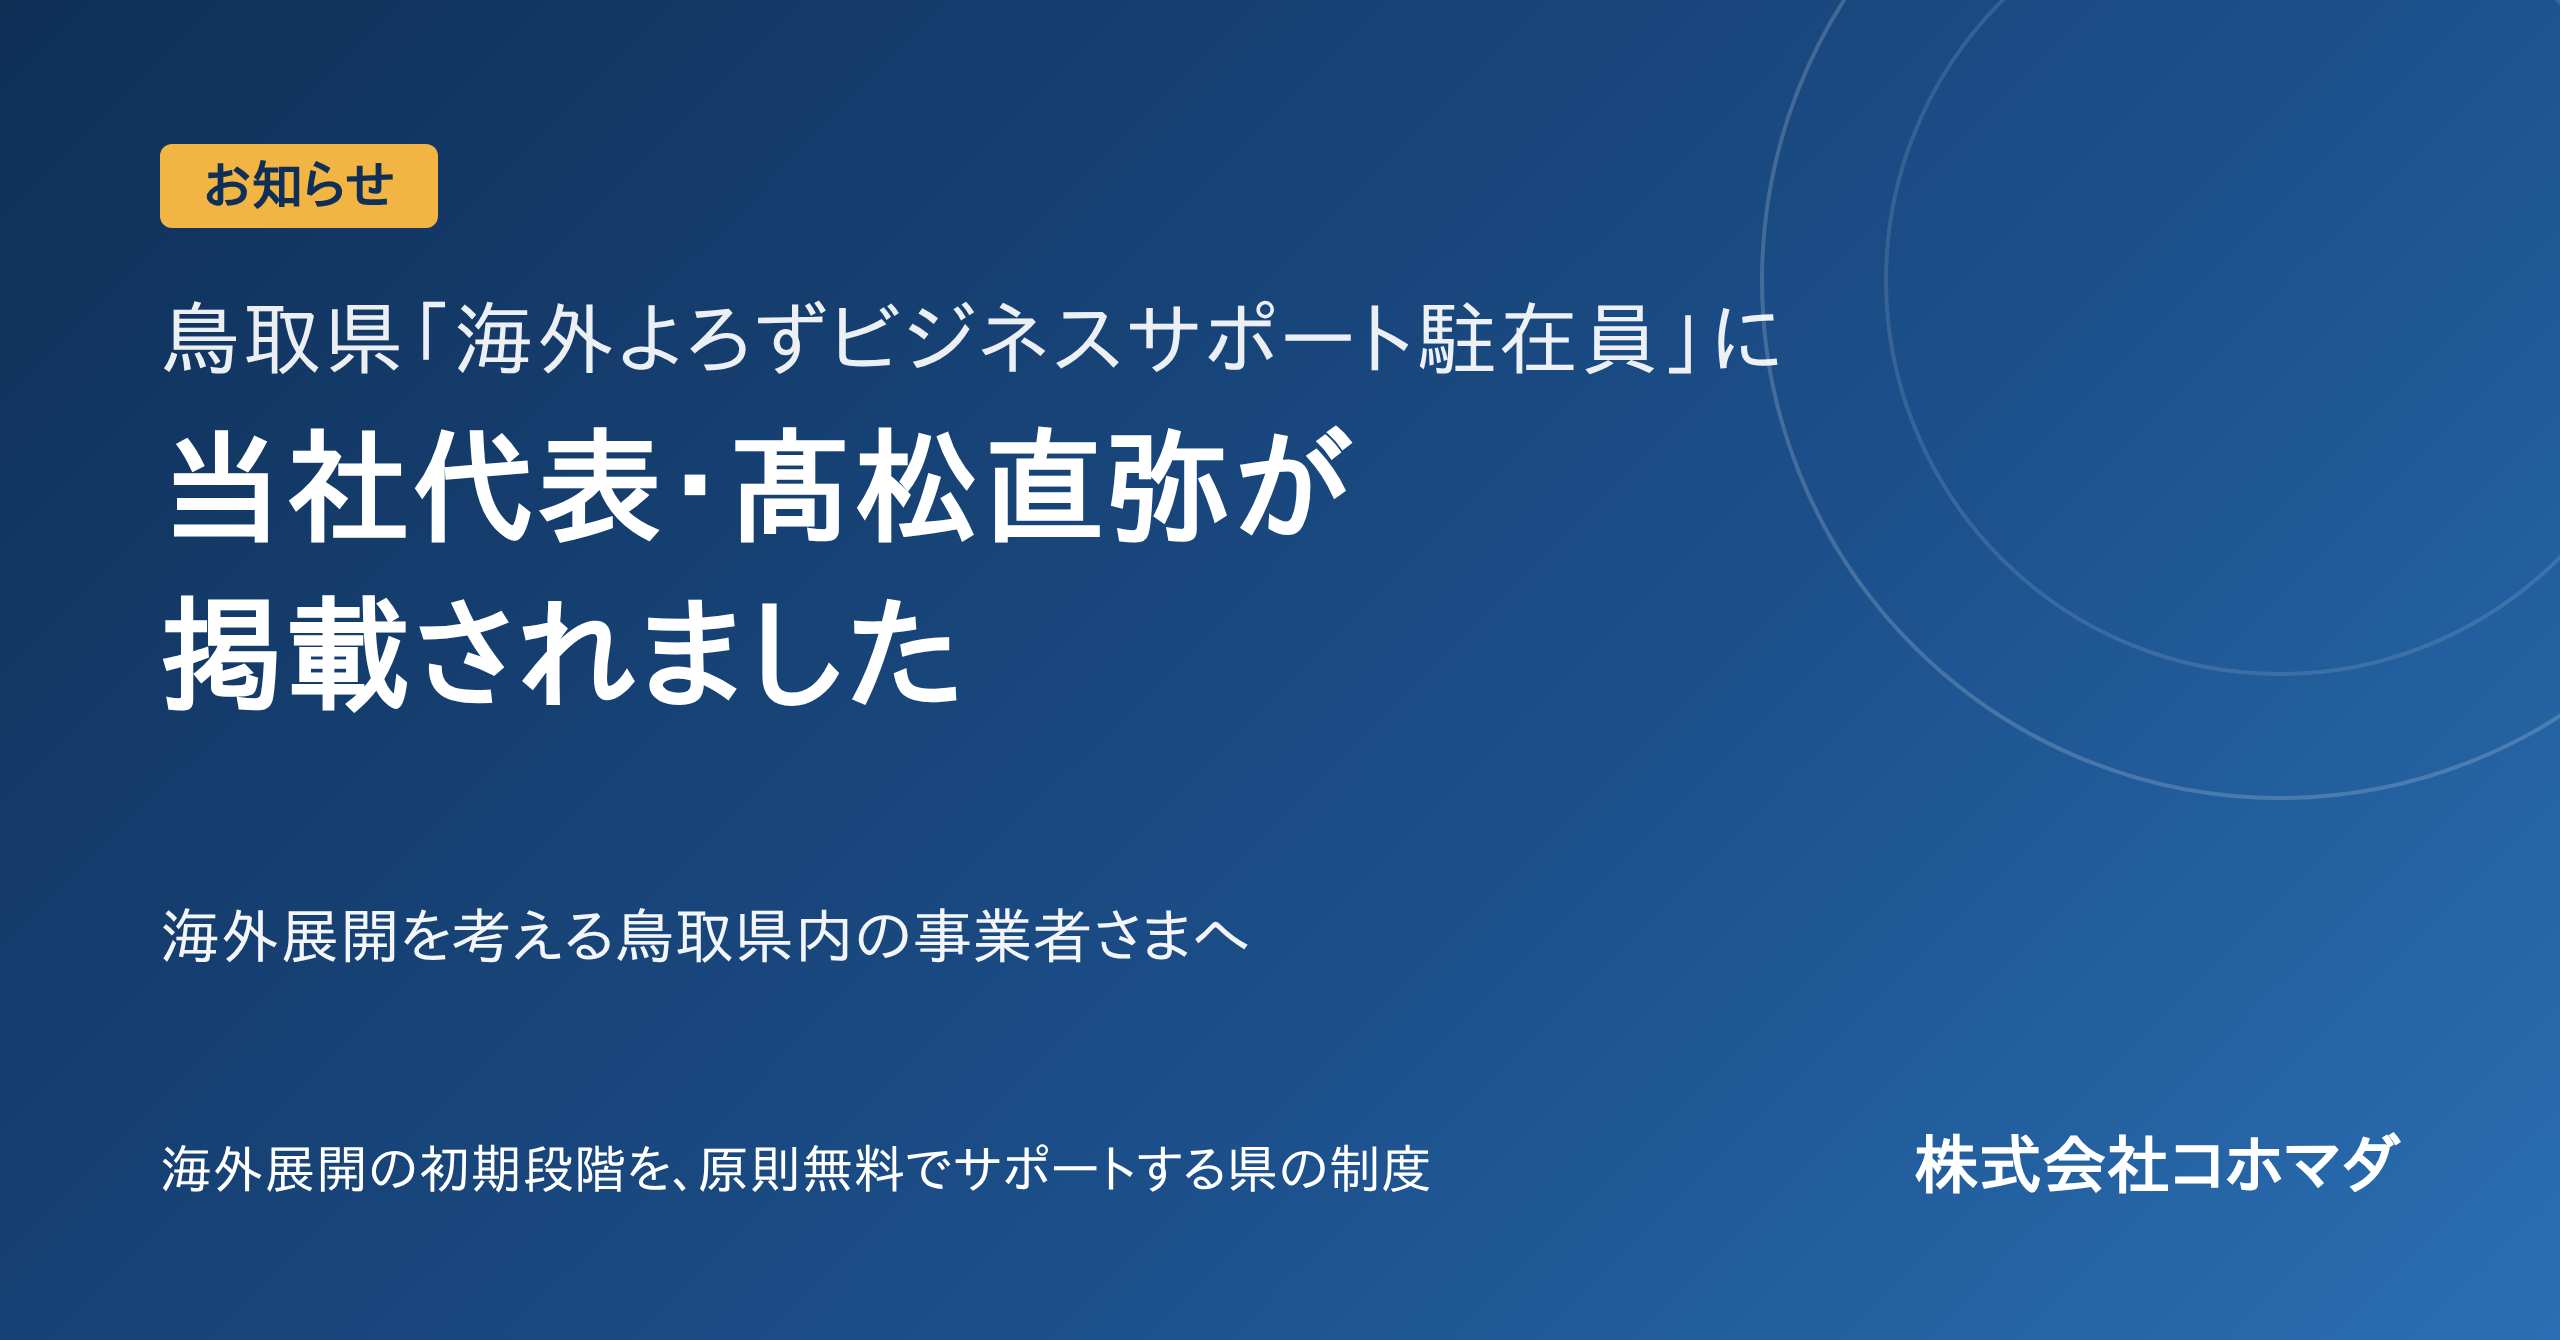
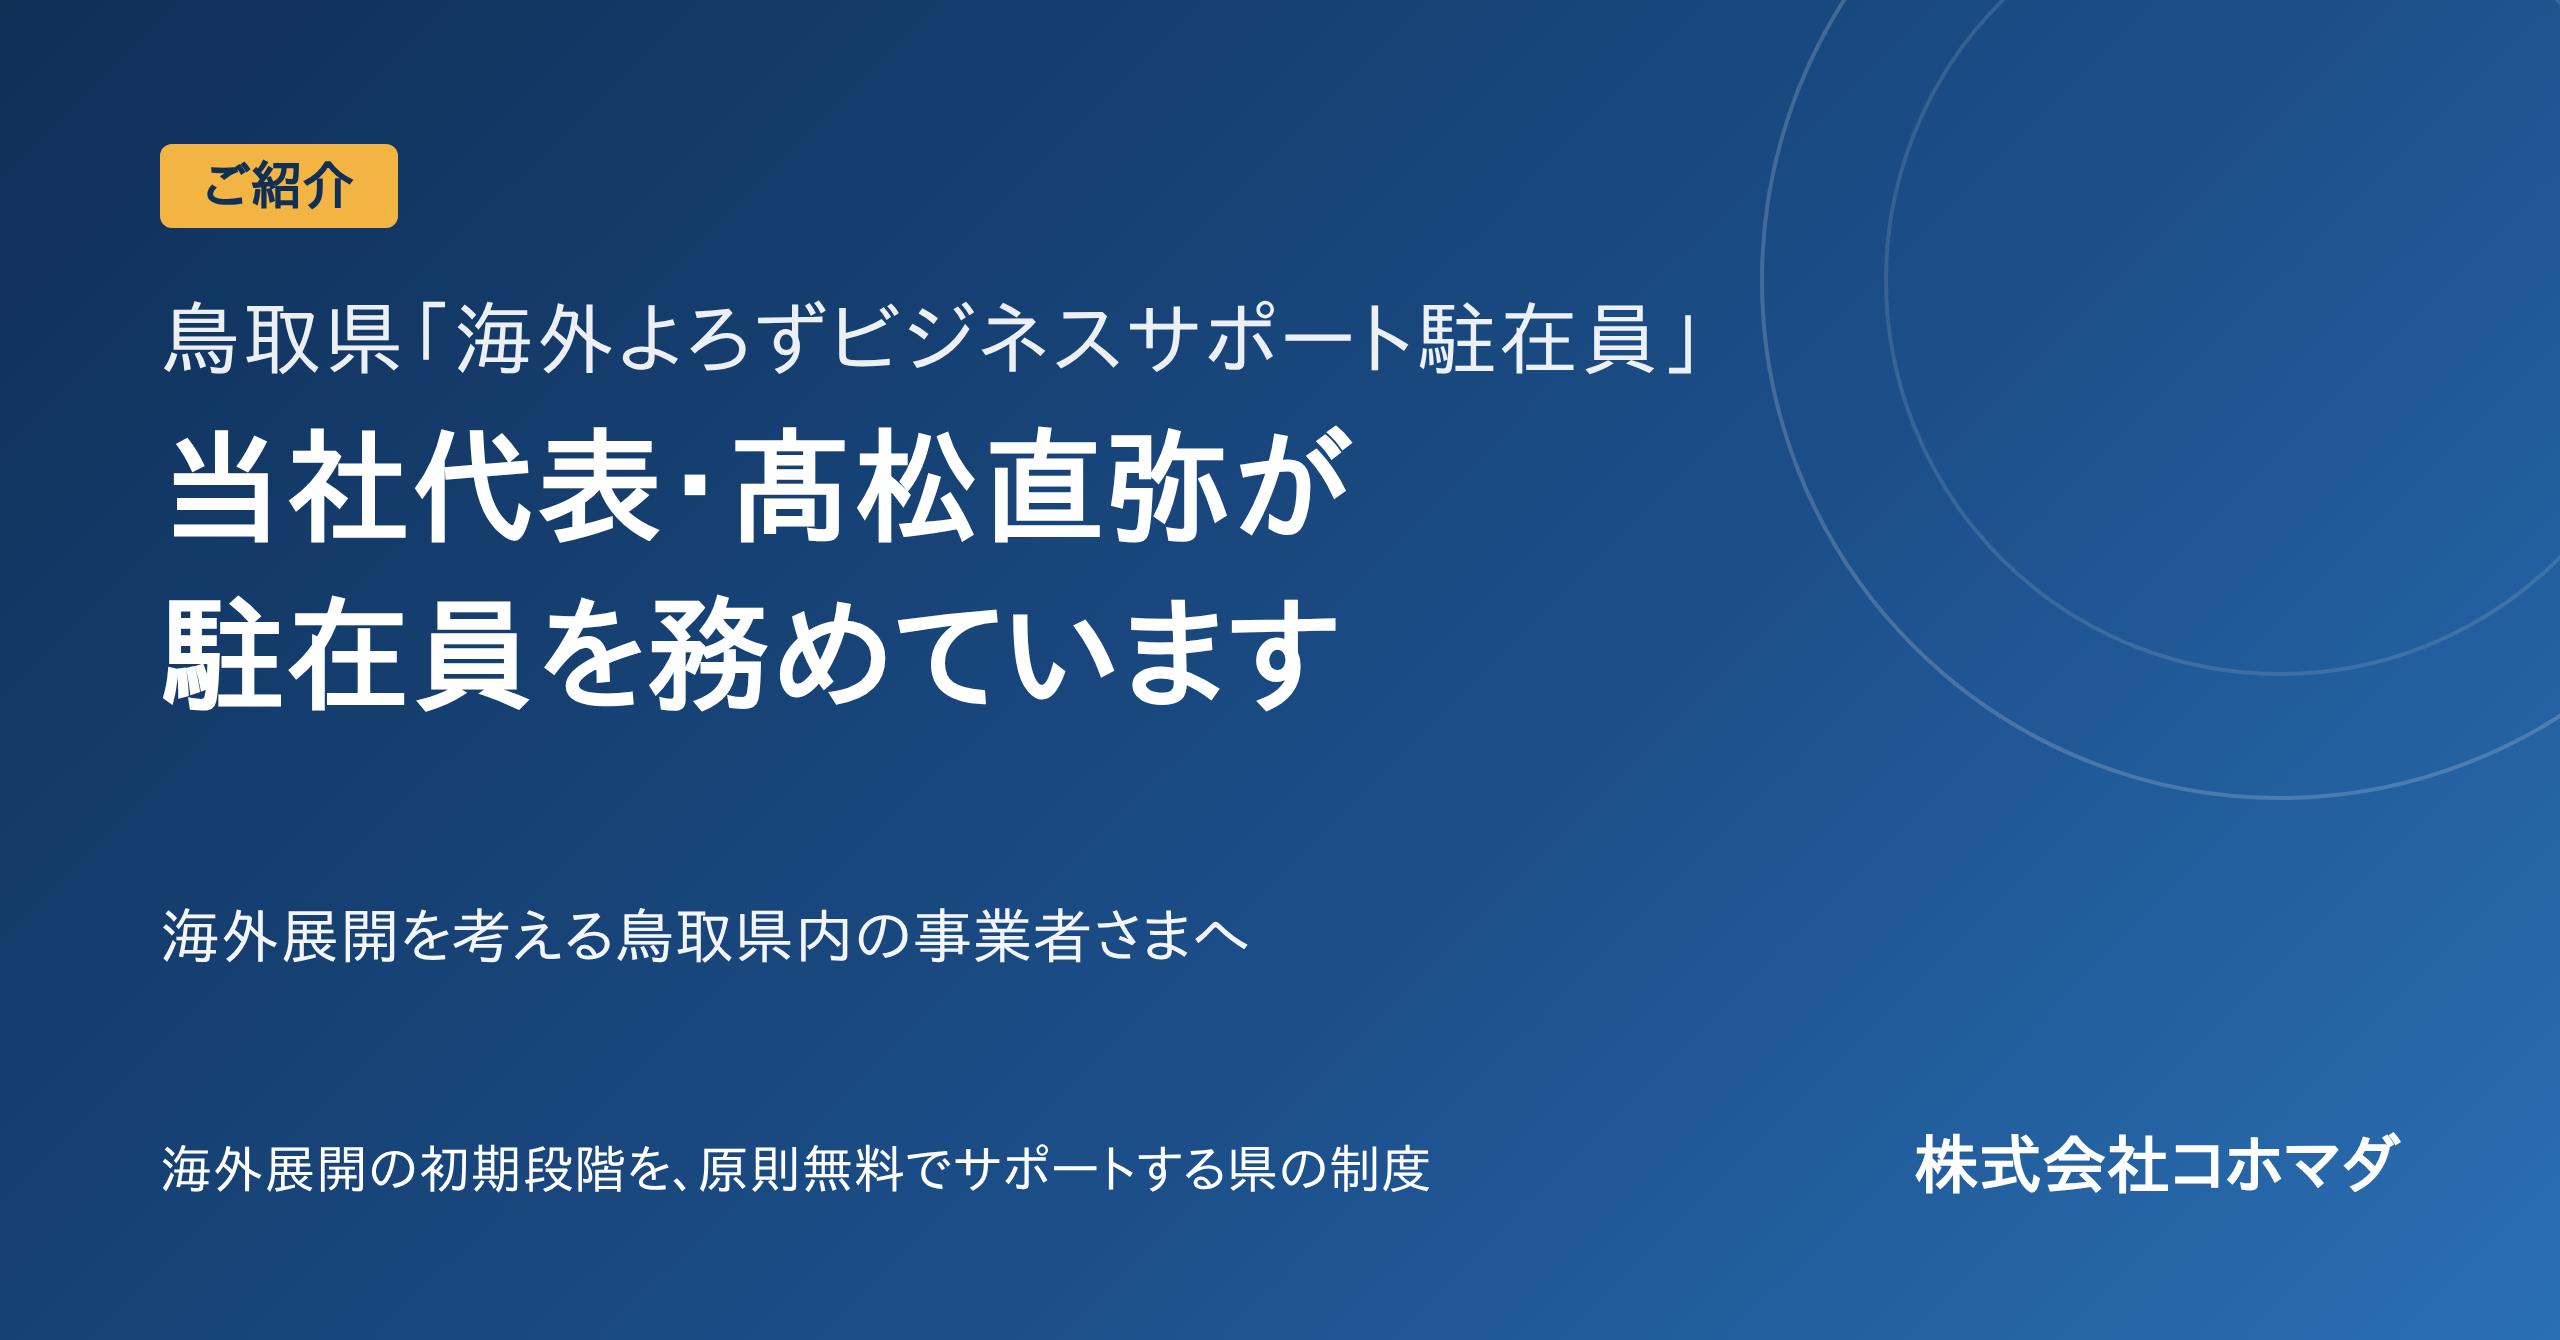
note記事（鳥取県駐在員）v6：任命時期（2025年末）を反映しご紹介記事の形に修正、見出し画像も更新
Claude-Session: https://claude.ai/code/session_019zHJ4LWbNGh2h3Keb25My9

Changed region(s): [[0.0625, 0.4284, 0.5312, 0.5507], [0.0625, 0.0918, 0.1875, 0.1836], [0.6562, 0.2448, 0.6875, 0.2754]]

diff --git a/logs/kohomada_2026-11-07_note画像_鳥取県駐在員/src.html b/logs/kohomada_2026-11-07_note画像_鳥取県駐在員/src.html
@@ -50,8 +50,8 @@ td .m{color:#4a5b70;font-size:22px}
 <div id="i1" class="img eyecatch">
   <div class="globe"></div>
   <div>
-    <span class="tag">お知らせ</span>
-    <h1><span class="sm">鳥取県「海外よろずビジネスサポート駐在員」に</span>当社代表・髙松直弥が<br>掲載されました</h1>
+    <span class="tag">ご紹介</span>
+    <h1><span class="sm">鳥取県「海外よろずビジネスサポート駐在員」</span>当社代表・髙松直弥が<br>駐在員を務めています</h1>
   </div>
   <div class="lead">海外展開を考える鳥取県内の事業者さまへ</div>
   <div class="foot"><span>海外展開の初期段階を、原則無料でサポートする県の制度</span><b>株式会社コホマダ</b></div>

diff --git a/logs/kohomada_2026-11-07_note記事下書き_鳥取県駐在員就任_v6.md b/logs/kohomada_2026-11-07_note記事下書き_鳥取県駐在員就任_v6.md
@@ -1,0 +1,191 @@
+# note記事下書き：鳥取県海外よろずビジネスサポート駐在員 v6
+
+- 対象事業：株式会社コホマダ（note／マガジン：貿易・海外展開／種別：無料）
+- 状態：Draft（社長提供情報「任命は2025年末ごろ」を反映し、新着のお知らせからご紹介記事の書き方に直したv6。v5：v4の本文はそのまま、図解画像5点の挿入位置を反映したv5。画像：`logs/kohomada_2026-11-07_note画像_鳥取県駐在員/`。v4までの経緯：v3のアオイ再監査：PASS WITH CONDITIONS → 必須修正N1・N2を修正例どおり、推奨R6・R7を反映したv4。修正例どおりのため再監査は省略可とアオイ判断）
+- 基準日：2026-11-07
+- 参考記事（文体・構成のみ参照。事実は持ち込まない）：
+  - https://note.com/kohomadha/n/n0973f531a0d1（Birdly紹介記事）
+  - https://note.com/kohomadha/n/n833dff644f80（Heura紹介記事）
+
+> **社長のご承認をお願いします。** 承認が必要な事項は末尾「6. 承認が必要な事項」にまとめています。
+
+---
+
+## 1. タイトル案
+
+1. 当社代表・髙松が務める、鳥取県「海外よろずビジネスサポート駐在員」のご紹介―海外展開を考える県内事業者さまへ
+2. 海外展開の最初の一歩を、原則無料で相談できる。鳥取県「海外よろずビジネスサポート駐在員」のご紹介
+3. まず海外の様子を知りたい事業者さまへ。当社代表・髙松は鳥取県の駐在員を務めています
+
+---
+
+## 2. 本文（note貼り付け用）
+
+**【本記事について】**
+本記事は、株式会社コホマダの代表・髙松直弥が務めている、鳥取県の「海外よろずビジネスサポート駐在員」について、制度の内容とあわせてご紹介するものです。制度の内容は、鳥取県公式サイトの掲載内容をもとに整理しました。
+
+【見出し画像：01_見出し画像.png】
+
+* * *
+
+### はじめに
+
+当社代表の髙松直弥は、2025年末から、鳥取県の「海外よろずビジネスサポート駐在員」を務めています。
+県の公式サイトにも、駐在員の一人として掲載されています。
+
+「海外で売ってみたいけれど、何から始めればいいかわからない」。
+そんな鳥取県内の事業者さまが、まず相談できる県の制度のひとつです（受付は鳥取県の窓口です）。
+
+本記事では、制度のしくみ、駐在員がお手伝いできること・できないこと、髙松の担当地域、そして相談の進め方を順にご紹介します。
+
+* * *
+
+### 「海外よろずビジネスサポート駐在員」とは
+
+鳥取県が、県内企業の海外展開を支援するために設けている制度です。
+
+県の説明によれば、世界の主要な市場に駐在員を置き、現地の情報を伝えたり、商談の相手先候補を案内したりして、**県内企業の海外展開を現地でサポートする**ことを目的としています。
+
+> ・**対象**：鳥取県内に本店・本社・主たる事業所がある法人、または個人の方
+> ・**想定している段階**：海外展開に取り組む**初期段階**の支援
+> ・**料金**：**原則無料**（入場料・使用料・送料などの実費は、依頼する方のご負担です）
+
+【図解：02_制度の概要.png】
+
+* * *
+
+### 駐在員がお手伝いできること・できないこと
+
+県のページでは、駐在員の支援内容として次のものが挙げられています。
+
+> ⒈ 現地の市場・商材・現地事情などについての**簡単な情報提供**
+> ⒉ 現地の**商談候補企業・視察先候補企業**の情報提供・リストアップ
+> ⒊ 現地での**視察代行**（駐在している周辺エリアに限ります。交通費を含みます）
+> ⒋ 現地へ行くときの**同行支援**（通訳・交通費は含みません。1日最大8時間まで）
+
+【図解：03_できること一覧.png】
+
+一方で、長時間の作業や、専門的な知識が必要なご依頼には対応できない、とされています。
+
+「まず現地の様子を知りたい」「最初の相手先の候補を探したい」。
+そうした最初の段階で使っていただく制度だと、当社は理解しています。
+
+* * *
+
+### 当社代表・髙松の担当地域
+
+県のページでは、髙松の対応可能国は次のように掲載されています。
+
+> 東南アジア・欧米・EU・南米・アフリカ 等
+
+また、これまでの取り組みとして、スリランカでの自社製品の販売や、EUへの食品の展開支援、アフリカへのアパレルの展開支援などが紹介されています。
+
+髙松は日本国内を拠点に、海外のネットワークを活かしてご相談に対応します。
+そのため、視察代行・同行支援など、具体的にどこまで対応できるかは、ご依頼内容に応じて県の窓口を通じてご確認ください。
+
+なお、ほかの地域を担当する駐在員の方もいらっしゃいます。詳しくは県のページ・窓口でご確認ください。
+
+【図解：04_髙松の対応可能国.png】
+
+* * *
+
+### 相談の進め方
+
+この制度の受付は、鳥取県が行っています。
+ご利用を考えている方は、まず**県の窓口に、メールか電話でお問い合わせください**。
+
+> **鳥取県 商工労働部 通商物流課**
+> 電話：0857-26-7660
+> メール：tsushou-butsuryu@pref.tottori.lg.jp
+
+「海外の市場の様子をまず知りたい」「現地の商談相手の候補を知りたい」。
+まだ始める前の段階のご相談でも、まずは一度、窓口に聞いてみてください。
+
+【図解：05_相談の進め方.png】
+
+* * *
+
+### さいごに
+
+海外展開は、最初の一歩がいちばん難しいものです。
+
+鳥取県の商品や技術が、海外のお客さまに届くように。
+髙松は駐在員の一人として、県内事業者さまの最初の一歩をお手伝いしてまいります。
+
+* * *
+
+### コホマダについて：海外と日本の事業者をつなぐ
+
+株式会社コホマダは、海外企業の日本進出と、日本企業の海外展開を支援しています（[公式サイト](https://kohomadha.com/)）。
+
+* * *
+
+### 本記事について（注記）
+
+**【制度の内容について】**
+本記事の制度の内容は、鳥取県公式サイトの掲載内容を当社が要約したものです。最新の条件・対象国・手続きは、必ず鳥取県の窓口でご確認ください。
+
+**【表示について】**
+本記事は鳥取県が作成・監修したものではなく、鳥取県による当社の推奨・保証を示すものでもありません。
+
+* * *
+
+### 出典・基準日
+
+* 鳥取県公式サイト「鳥取県海外よろずビジネスサポート駐在員」（鳥取県 商工労働部 通商物流課）
+  https://www.pref.tottori.lg.jp/311954.htm
+  （確認日：2026年11月7日。ページに掲載日・更新日の記載はありません）
+
+#鳥取県 #海外展開 #中小企業支援 #海外ビジネス #貿易 #コホマダ #株式会社コホマダ
+
+---
+
+## 3. 参考記事から取り入れた型
+
+| 型 | 参考記事での例 | v3での反映 |
+|---|---|---|
+| 冒頭で記事の立場を明示 | 【本記事について】（両記事） | 冒頭に【本記事について】 |
+| 一人称は「当社」、「私」は使わない | 両記事 | 「当社」「髙松」で統一 |
+| 情報源を毎回明示 | 「同社によれば」 | 「県の説明によれば」「県のページでは」 |
+| 見出しごとに区切り線 | * * * ＋ h3 | 同じ |
+| 要点の列挙は引用ブロック・番号 | ⒈⒉⒊（記事1） | 支援内容4項目 |
+| 「コホマダについて」の節 | 記事1 | 公式サイトリンクのみ |
+| 注記・免責 → 出典・確認日 → ハッシュタグ7個 | 両記事 | 同じ順番 |
+| 絵文字 | 記事1は1か所、記事2はなし | なし（お知らせ記事のため） |
+| 画像 | 見出し画像＋各節の前後 | 見出し画像＋本文3枚の位置案 |
+
+## 4. 事実と出典の対応表
+
+| 本文の記載 | 根拠（県ページ本文） |
+|---|---|
+| 髙松直弥が駐在員として県公式サイトに掲載 | 県ページNo.2「株式会社コホマダ　髙松　直弥　代表」 |
+| 2025年末から駐在員を務めている | [ユーザー提供情報] 社長より「去年の年末ごろ任命」（2026-11-07）。県ページに記載なし |
+| 制度の目的 | 県ページ冒頭の説明 |
+| 対象・初期段階の支援 | 県ページ本文（対象） |
+| 原則無料・実費は依頼者負担 | 県ページ本文（料金） |
+| 支援内容4項目・交通費の扱い・通訳除く・1日最大8時間 | 県ページ本文（支援内容） |
+| 長時間・専門的な依頼は対応不可 | 県ページの注記 |
+| 対応可能国・実績・国内拠点 | 県ページNo.2 |
+| 他地域の駐在員がいる | 県ページNo.1・No.3 |
+| 受付は県・まずメールか電話／連絡先 | 県ページ本文（利用の流れ・問い合わせ先） |
+| コホマダの事業説明（「コホマダについて」） | 参考記事1の当社定型文と同じ文言（当社の自己紹介） |
+| 「当社は理解しています」「髙松は…お手伝いしてまいります」 | 事実ではなく当社の意思表明（社長・髙松さんの確認対象） |
+
+## 5. [要ヒアリング] 残りリスト
+
+- 任命時期：社長より「2025年の年末ごろ」と提供 → 本文は「2025年末から」と記載。正確な月日・任期は髙松さんに確認推奨（任期が終わっていないかも確認）
+- 髙松さん本人のコメント（入れる場合は「さいごに」に引用ブロックで追加）
+- 実績の具体的な社名・数字を出してよいか（今は県ページの範囲のみ）
+- コホマダ自身への問い合わせ導線を入れるか（参考記事2ではメールアドレスを掲載。今回は県窓口のみ）
+- 髙松さん個人が視察代行・同行支援を引き受けられる範囲
+- 図解画像5点は当社作成（県ロゴ・県ページのスクショ・他の駐在員の情報は不使用）。内容は本文と同じ事実のみ
+
+## 6. 承認が必要な事項（社長のご承認をお願いします）
+
+1. note公開の可否（公開操作は社長ご自身で）。「コホマダについて」の会社紹介文（既公開のBirdly記事と同じ文言）もあわせてご確認ください
+2. 掲載内容・実績の書き方・タイトルについての髙松さん本人の了承
+3. 公開前に県担当課（通商物流課）へ事前確認するかどうか
+
+---
+
+本下書きは自動生成による候補です。実際の投稿・公開前に必ずaoi-quality-auditorの監査を経てください（external-publication-policy.md）。実際の投稿・公開は鈴木さん自身が行ってください。本エージェントは投稿・公開操作を一切行っていません。
